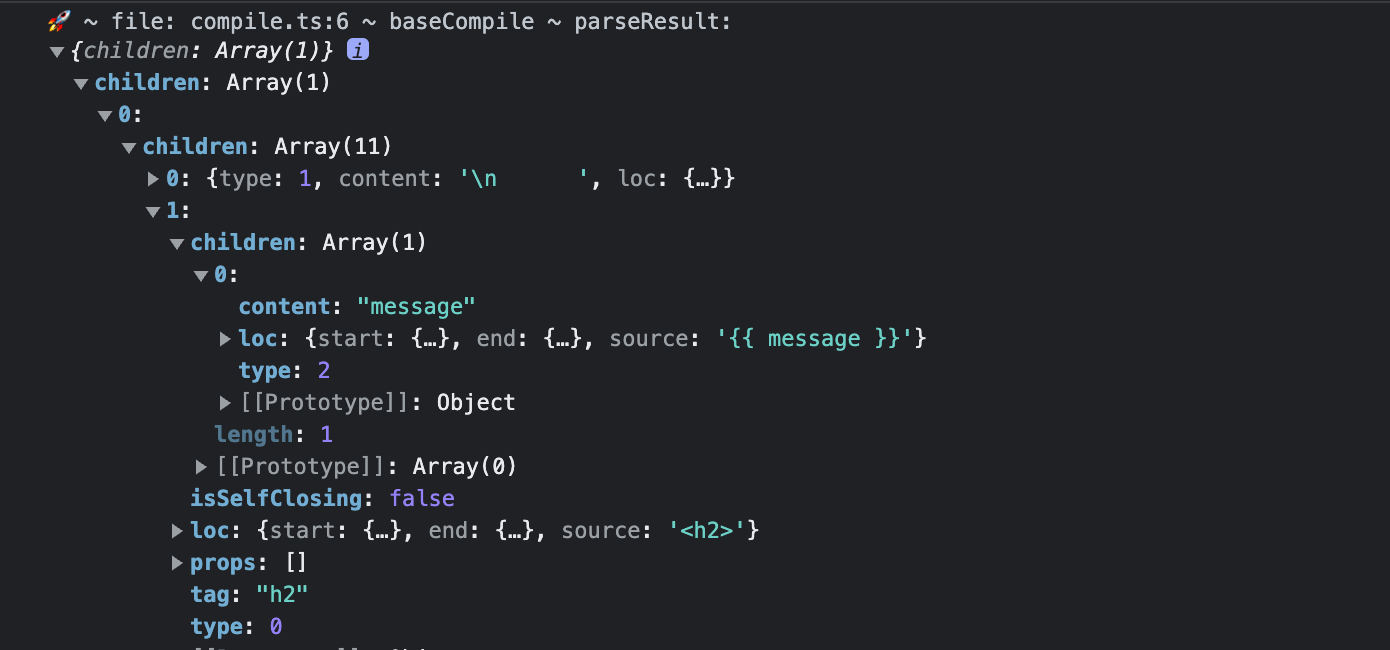
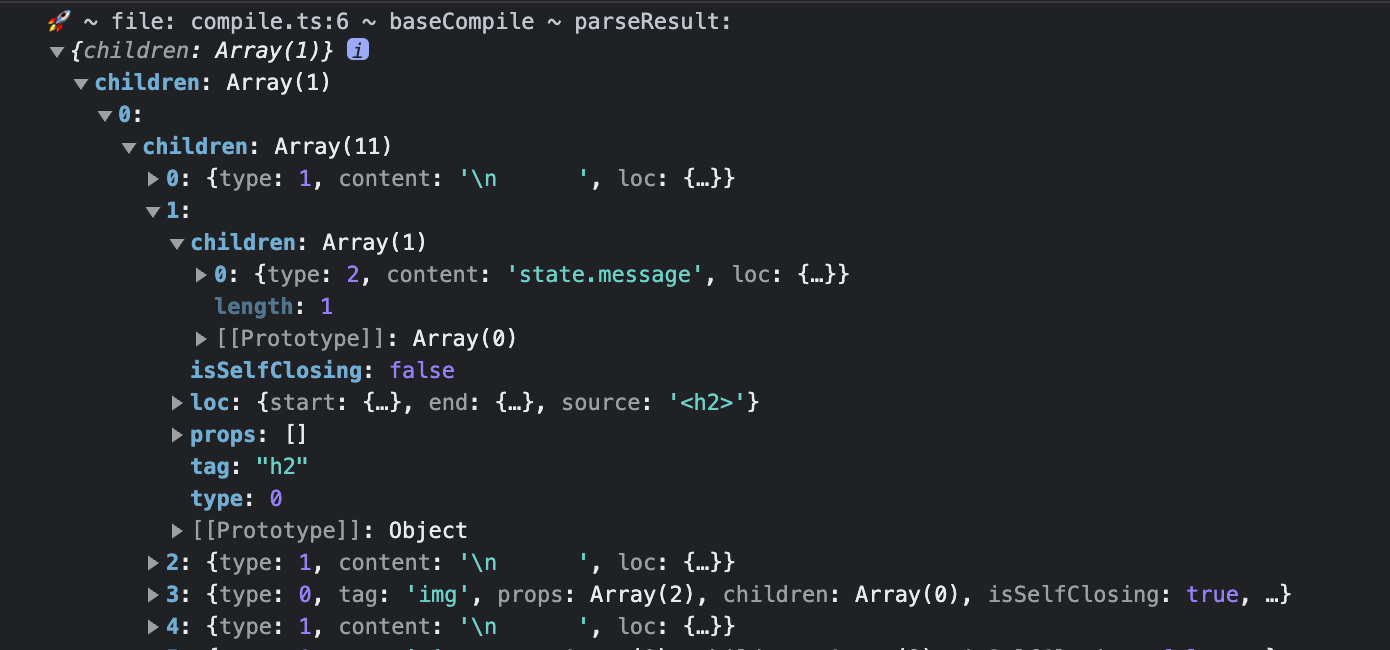
chap_code: render interpolation

diff --git a/books/chapter_codes/07-3_mininum_template_compiler/packages/compiler-core/codegen.ts b/books/chapter_codes/07-3_mininum_template_compiler/packages/compiler-core/codegen.ts
@@ -1,11 +1,17 @@
-import { ElementNode, NodeTypes, TemplateChildNode, TextNode } from "./ast";
+import {
+  ElementNode,
+  InterpolationNode,
+  NodeTypes,
+  TemplateChildNode,
+  TextNode,
+} from "./ast";
 
 export const generate = ({
   children,
 }: {
   children: TemplateChildNode[];
 }): string => {
-  return `return function render() {
+  return `return function render(_ctx) {
   const { h } = ChibiVue;
   return ${genNode(children[0])};
 }`;
@@ -17,6 +23,8 @@ const genNode = (node: TemplateChildNode): string => {
       return genElement(node);
     case NodeTypes.TEXT:
       return genText(node);
+    case NodeTypes.INTERPOLATION:
+      return genInterpolation(node);
     default:
       return "";
   }
@@ -30,4 +38,8 @@ const genElement = (el: ElementNode): string => {
 
 const genText = (text: TextNode): string => {
   return `\`${text.content}\``;
+};
+
+const genInterpolation = (node: InterpolationNode): string => {
+  return `_ctx.${node.content}`;
 };

diff --git a/books/chapter_codes/07-3_mininum_template_compiler/packages/runtime-core/renderer.ts b/books/chapter_codes/07-3_mininum_template_compiler/packages/runtime-core/renderer.ts
@@ -160,9 +160,9 @@ export function createRenderer(options: RendererOptions) {
     container: RendererElement
   ) => {
     const componentUpdateFn = () => {
-      const { render } = instance;
+      const { render, setupState } = instance;
       if (!instance.isMounted) {
-        const subTree = (instance.subTree = normalizeVNode(render()));
+        const subTree = (instance.subTree = normalizeVNode(render(setupState)));
         patch(null, subTree, container);
         initialVNode.el = subTree.el;
         instance.isMounted = true;
@@ -180,7 +180,7 @@ export function createRenderer(options: RendererOptions) {
         }
 
         const prevTree = instance.subTree;
-        const nextTree = normalizeVNode(render());
+        const nextTree = normalizeVNode(render(setupState));
         instance.subTree = nextTree;
 
         patch(prevTree, nextTree, hostParentNode(prevTree.el!)!);

diff --git a/books/chapter_codes/07-3_mininum_template_compiler/examples/playground/src/main.ts b/books/chapter_codes/07-3_mininum_template_compiler/examples/playground/src/main.ts
@@ -11,7 +11,7 @@ const app = createApp({
   },
   template: `
     <div class="container" style="text-align: center">
-      <h2>{{ message }}</h2>
+      <h2>{{ state.message }}</h2>
       <img
         width="150px"
         src="https://upload.wikimedia.org/wikipedia/commons/thumb/9/95/Vue.js_Logo_2.svg/1200px-Vue.js_Logo_2.svg.png"

diff --git a/books/chapter_codes/07-3_mininum_template_compiler/packages/compiler-core/compile.ts b/books/chapter_codes/07-3_mininum_template_compiler/packages/compiler-core/compile.ts
@@ -3,10 +3,6 @@ import { baseParse } from "./parse";
 
 export function baseCompile(template: string) {
   const parseResult = baseParse(template.trim());
-  console.log(
-    "🚀 ~ file: compile.ts:6 ~ baseCompile ~ parseResult:",
-    parseResult
-  );
   const code = generate(parseResult);
   return code;
 }

diff --git a/books/chapter_codes/07-3_mininum_template_compiler/packages/runtime-core/component.ts b/books/chapter_codes/07-3_mininum_template_compiler/packages/runtime-core/component.ts
@@ -27,7 +27,7 @@ export interface ComponentInternalInstance {
 }
 
 export type InternalRenderFunction = {
-  (): VNodeChild;
+  (ctx: Data): VNodeChild;
 };
 
 export function createComponentInstance(
